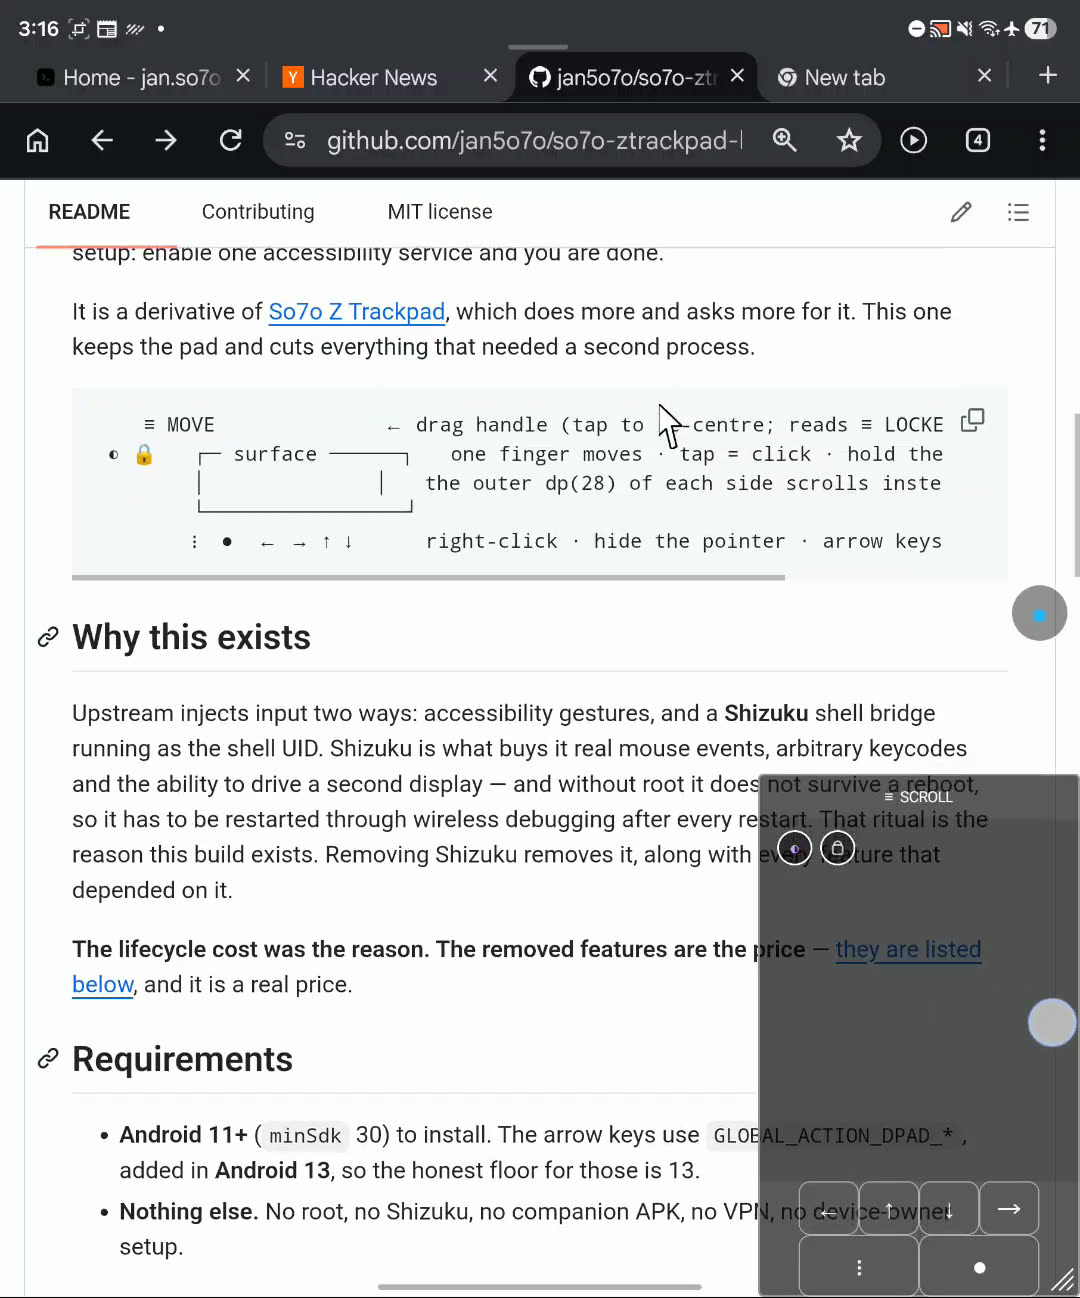
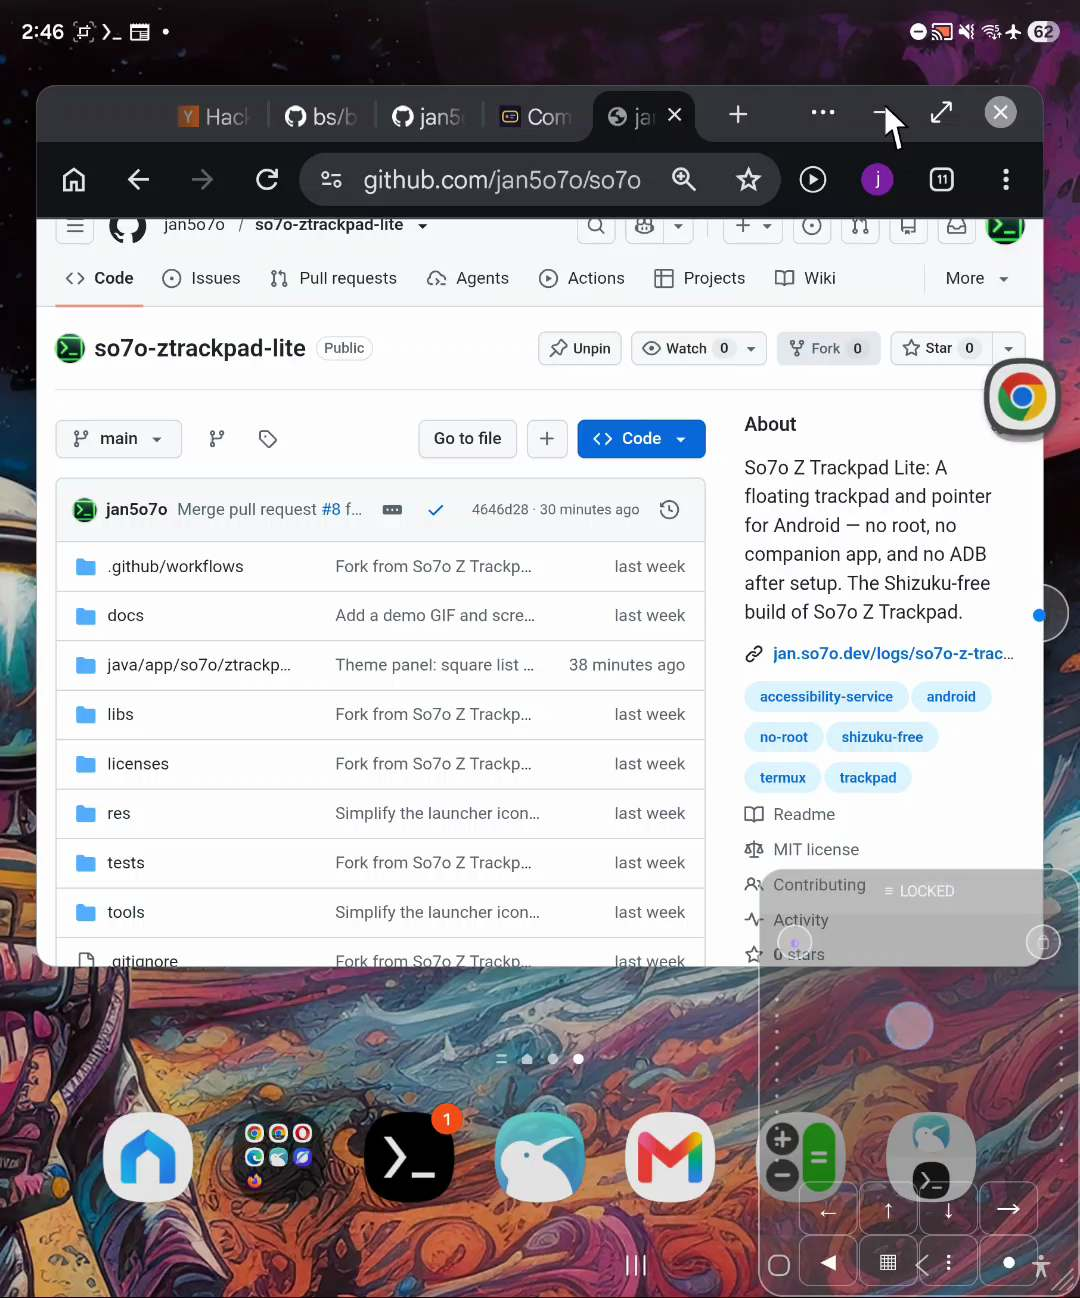
README media: refresh screenshots + demo GIF to 0.3.0
- pad-theme-and-opacity.jpg: new theme panel with the title-bar × close
  button and square preset-row borders (from the 0.3.0 demo recording).
- browser-and-pad.jpg: refreshed pad-over-page shot from the recording.
- demo.gif: rebuilt from the theme-panel segment of the recording, 480px
  wide, ~326KB (mostly still), showing the × close and square rows.
- README caption notes the × close and square rows.

diff --git a/README.md b/README.md
@@ -150,7 +150,8 @@ under it, including the pad's own footprint:
 
 ![The pad over Chrome, driving github.com/jan5o7o/so7o-ztrackpad-lite](docs/screenshots/browser-and-pad.jpg)
 
-The theme and opacity menu, opened from the `◐` dot under the handle:
+The theme and opacity menu, opened from the `◐` dot under the handle — the title bar's
+`×` closes it, and the preset rows have square borders:
 
 ![The theme and opacity menu open beside the pad over the home screen](docs/screenshots/pad-theme-and-opacity.jpg)
 
